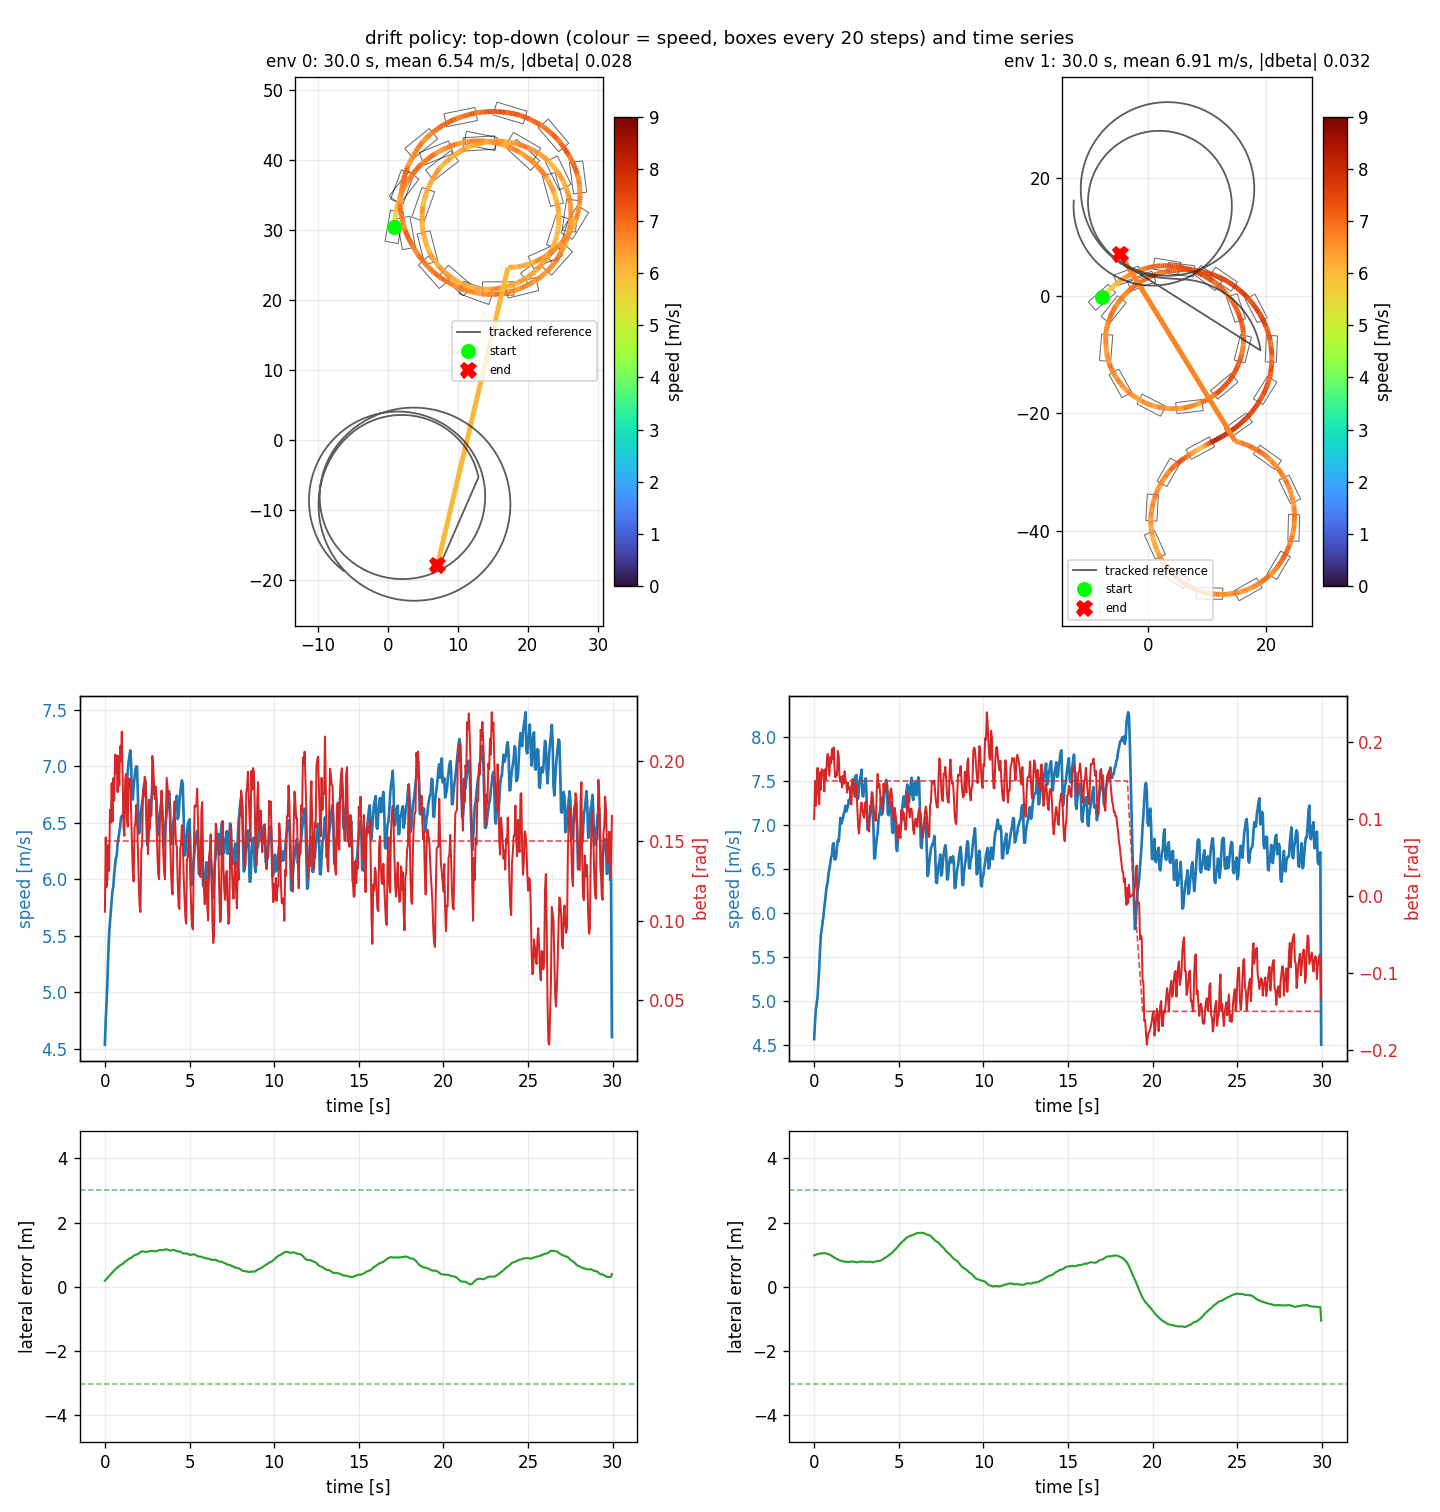
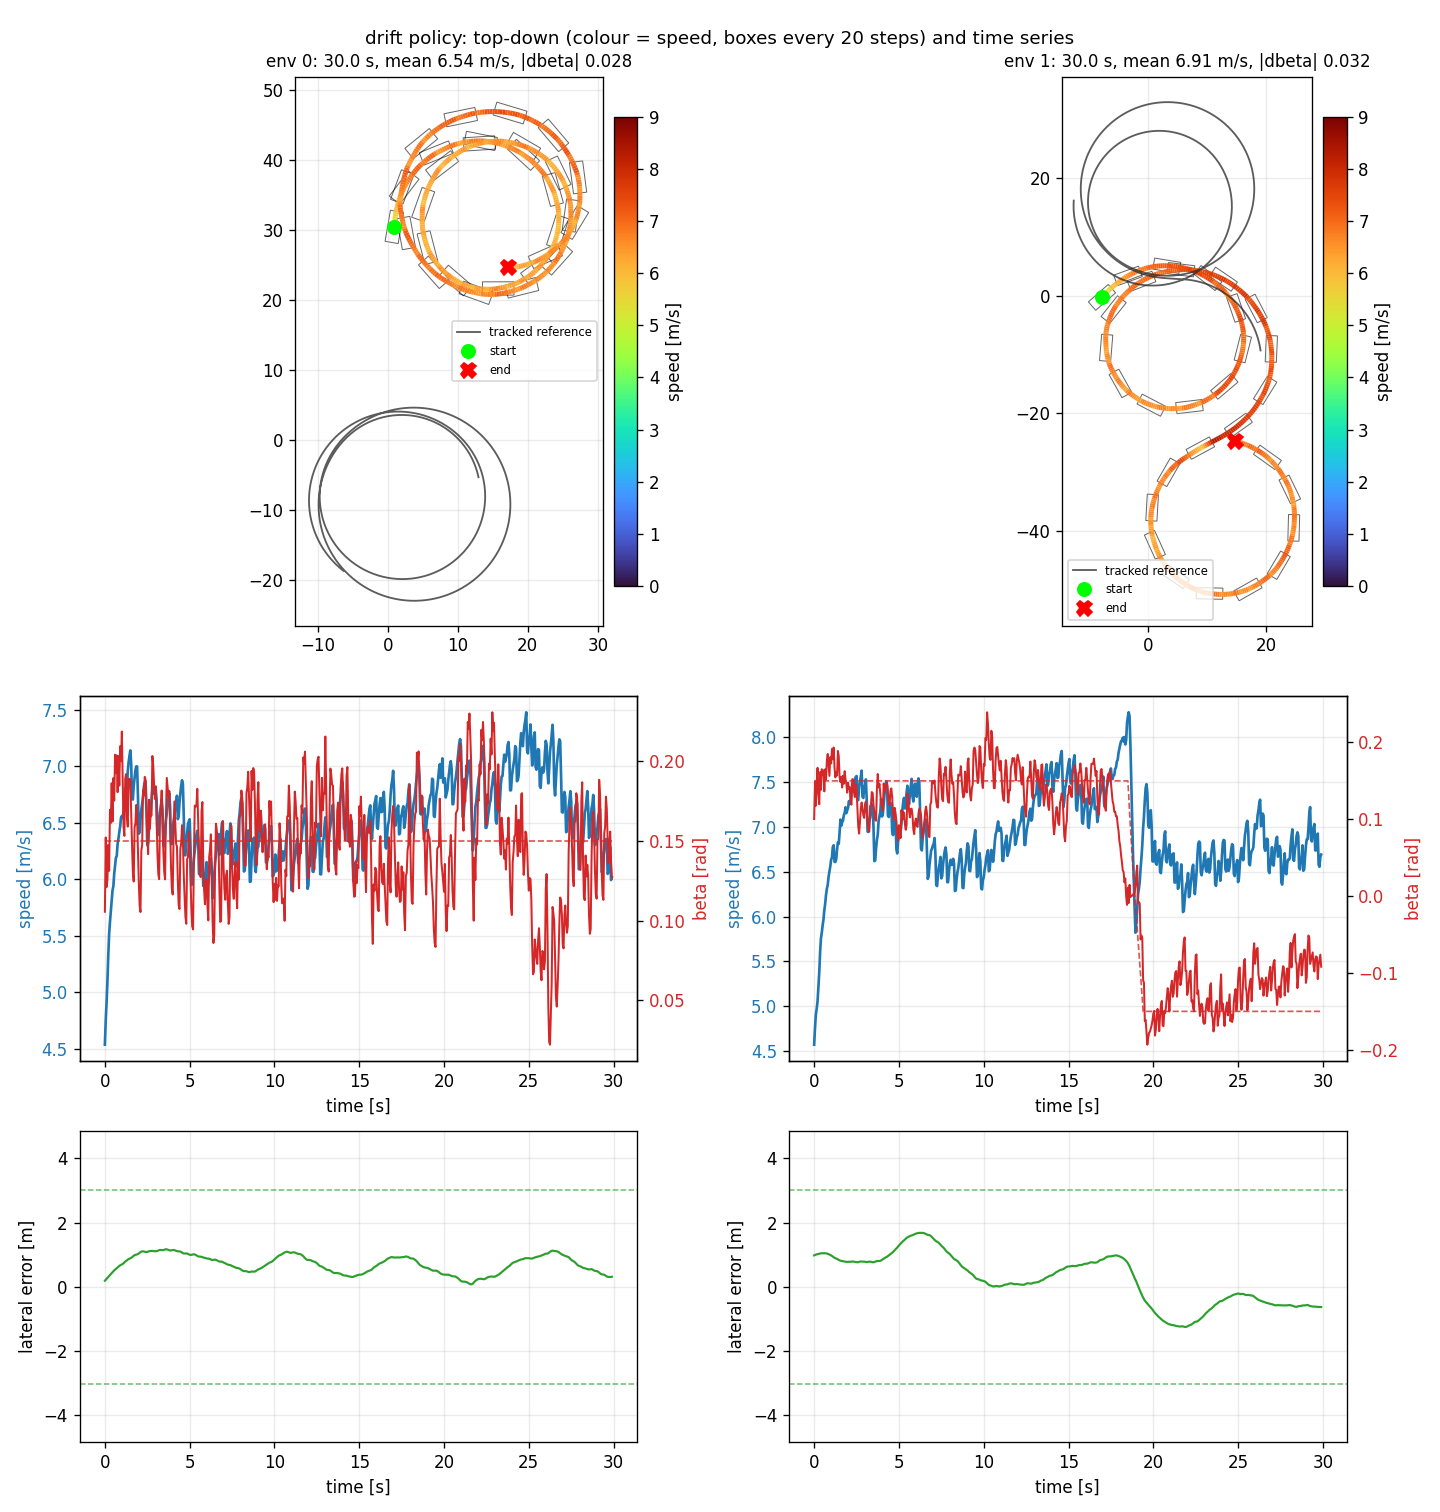
fix(render): three real plotting bugs behind the 'unrelated trajectory' impression
1. On the terminal step the environment has already respawned, so the last
   recorded sample was the NEXT episode's spawn position; the polyline then drew
   a long false straight line and put the end marker far away.
2. env.path_id was read after the episode, i.e. after the respawn had randomised
   it, so the grey geometry belonged to a different path than the one driven.
3. Drawing the reference by its index range includes branches the car never
   visits, and connecting per-step nearest indices draws chords across jumps.

proof_timecolour.png removes the ambiguity: the tracked reference point and the
car are both coloured by TIME, and every same-coloured pair sits on top of the
other (mean separation 0.62 m).

diff --git a/experiments/continuous_drift_iwd/render.py b/experiments/continuous_drift_iwd/render.py
@@ -75,6 +75,7 @@ def main(args):
     headings = [[] for _ in range(n)]
     progress = [[] for _ in range(n)]
     epos = [[] for _ in range(n)]
+    pid0 = [None] * n   # path id AT EPISODE START (it is re-randomised on respawn)
     deltas = [[] for _ in range(n)]
     throttles = [[] for _ in range(n)]
     alive = [0] * n
@@ -92,8 +93,14 @@ def main(args):
         d = env.u_cmd[:, 0].detach().cpu().numpy()
         q = env.u_cmd[:, 1].detach().cpu().numpy()
         dn = done.detach().cpu().numpy()
+        # on the terminal step the environment has ALREADY respawned, so the state
+        # below belongs to the next episode: record the previous sample instead
+        alive_now = dn == 0
         for k in range(n):
-            if end_step[k] >= 0:
+            if end_step[k] >= 0 or not alive_now[k]:
+                if end_step[k] < 0:
+                    end_step[k] = step + 1
+                continue
                 continue
             traj[k].append(pos[k].copy())
             speeds[k].append(float(v[k]))
@@ -102,6 +109,8 @@ def main(args):
             headings[k].append(float(psi[k]))
             progress[k].append(int(env.progress.detach().cpu().numpy()[k]))
             epos[k].append(float(env.signed_pos_diff.detach().cpu().numpy()[k]))
+            if pid0[k] is None:
+                pid0[k] = int(env.path_id.detach().cpu().numpy()[k])
             deltas[k].append(float(d[k]))
             throttles[k].append(float(q[k]))
             alive[k] += 1
